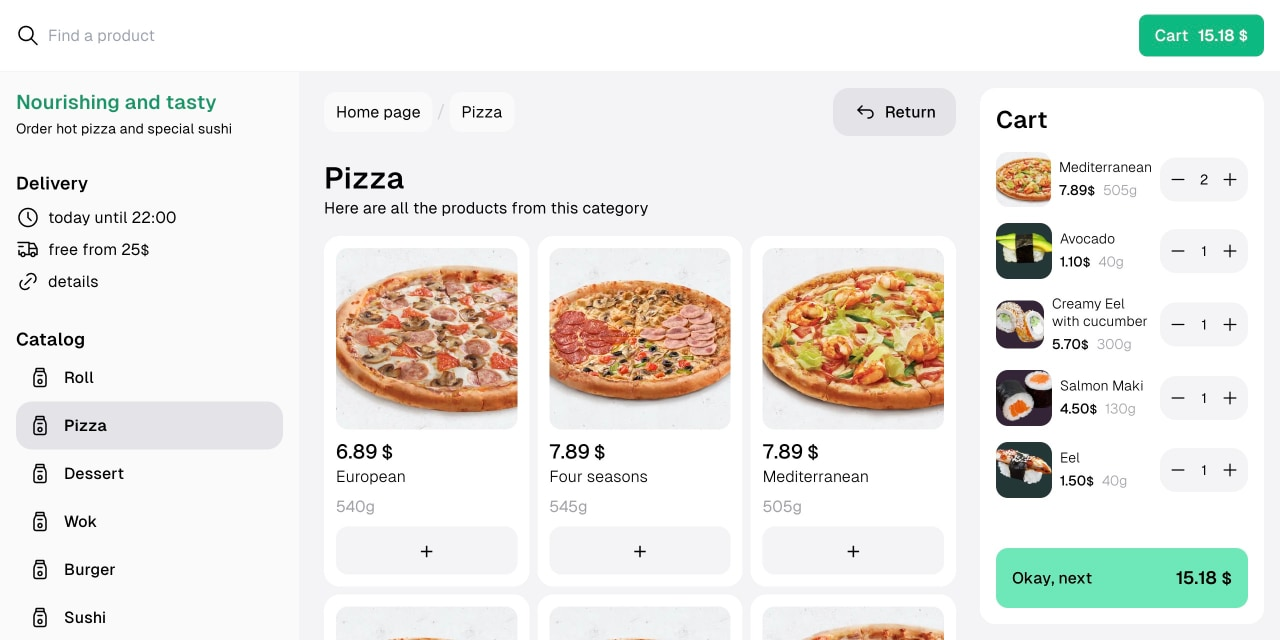
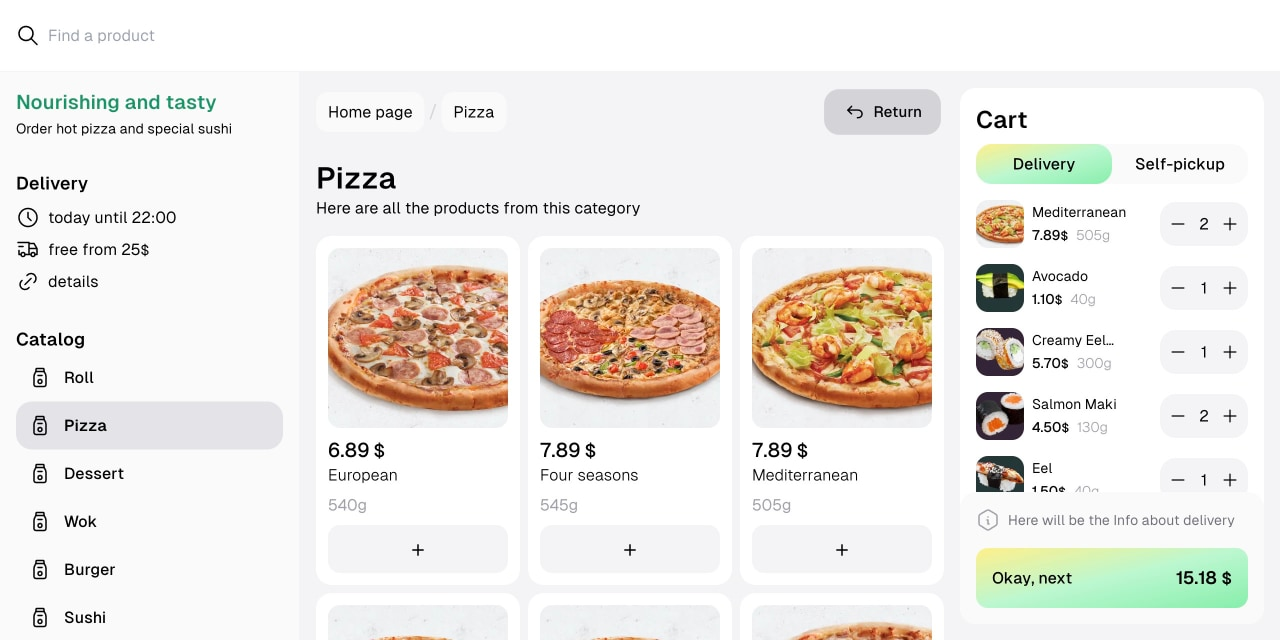
toggle for delivery/pickup, cart redesign

diff --git a/src/components/Cart.tsx b/src/components/Cart.tsx
@@ -5,6 +5,8 @@ import { Checkout, CheckoutLine } from "@next-orders/api-sdk";
 import { Counter } from "@/components/Counter";
 import { CurrencySign } from "@/components/CurrencySign";
 import { Price } from "@/components/Price";
+import { CartTypeToggle } from "@/components/CartTypeToggle";
+import { IconInfoHexagon } from "@tabler/icons-react";
 
 type Props = {
   checkout: Checkout | null;
@@ -20,14 +22,28 @@ export const Cart = ({ checkout }: Props) => {
   return (
     <div className="relative bg-white rounded-2xl px-4 py-4 h-full flex flex-col justify-between">
       <ScrollArea className="h-screen">
-        <div className="mb-32">
-          <p className="mb-4 text-2xl font-semibold">Cart</p>
+        <div className="mb-48">
+          <p className="mb-2 text-2xl font-semibold">Cart</p>
+
+          <div className="mt-2 mb-4">
+            <CartTypeToggle />
+          </div>
+
           {isEmpty && <CartEmpty />}
           {items}
         </div>
       </ScrollArea>
 
-      <div className="absolute bottom-0 left-0 right-0 bg-white rounded-2xl">
+      <div className="absolute bottom-0 left-0 right-0 rounded-2xl bg-zinc-50">
+        <div className="my-4 mx-4 flex flex-row gap-2 flex-nowrap items-center">
+          <IconInfoHexagon
+            stroke={1.5}
+            className="w-6 h-6 min-w-fit text-zinc-400"
+          />
+          <div className="leading-tight text-sm text-zinc-500">
+            Here will be the Info about delivery
+          </div>
+        </div>
         <div className="my-4 mx-4">
           <button className="w-full px-4 py-4 flex flex-row gap-2 flex-wrap justify-between items-center rounded-xl cursor-pointer bg-gradient-to-br from-yellow-200 via-green-200 to-green-300 hover:bg-gradient-to-r hover:scale-95 duration-200">
             <div className="font-medium">Okay, next</div>
@@ -62,7 +78,7 @@ const CartItemLine = ({ quantity, variant }: CheckoutLine) => {
           />
 
           <div>
-            <div className="font-light text-sm leading-tight line-clamp-1">
+            <div className="font-base text-sm leading-tight line-clamp-1">
               {variant.name}
             </div>
             <div className="mt-1 flex flex-row gap-2 flex-nowrap">

diff --git a/src/components/CartTypeToggle.tsx b/src/components/CartTypeToggle.tsx
@@ -1,0 +1,41 @@
+"use client";
+
+import React from "react";
+
+export const CartTypeToggle = () => {
+  const [type, setType] = React.useState<"DELIVERY" | "PICKUP">("DELIVERY");
+
+  return (
+    <div className="px-0 py-0 flex flex-row gap-0 justify-center bg-zinc-50 rounded-2xl">
+      <TypeButton type={"DELIVERY"} typeNow={type} onClick={setType} />
+      <TypeButton type={"PICKUP"} typeNow={type} onClick={setType} />
+    </div>
+  );
+};
+
+type TypeButtonProps = {
+  type: "DELIVERY" | "PICKUP";
+  typeNow: "DELIVERY" | "PICKUP";
+  onClick: React.Dispatch<React.SetStateAction<"DELIVERY" | "PICKUP">>;
+};
+
+const TypeButton = ({ type, typeNow, onClick }: TypeButtonProps) => {
+  let label;
+
+  if (type === "DELIVERY") {
+    label = "Delivery";
+  }
+  if (type === "PICKUP") {
+    label = "Self-pickup";
+  }
+
+  return (
+    <button
+      onClick={() => onClick(type)}
+      className="w-full px-2 py-2 font-medium rounded-2xl data-[active=true]:bg-gradient-to-br from-yellow-200 via-green-200 to-green-300 hover:bg-zinc-100 hover:scale-95 duration-200"
+      data-active={type === typeNow}
+    >
+      {label}
+    </button>
+  );
+};

diff --git a/src/components/AddToCart.tsx b/src/components/AddToCart.tsx
@@ -14,7 +14,7 @@ export const AddToCart = ({ product }: AddToCartProps) => {
   return (
     <button
       onClick={() => AddProductToCheckout("123", product.id)}
-      className="px-5 py-3 flex flex-row gap-2 text-base font-medium cursor-pointer rounded-2xl bg-emerald-200 hover:bg-emerald-300 hover:scale-95 duration-200"
+      className="px-5 py-3 flex flex-row gap-2 text-base font-medium cursor-pointer rounded-2xl bg-gradient-to-br from-yellow-200 via-green-200 to-green-300 hover:scale-95 duration-200"
     >
       <IconShoppingCartPlus stroke={1.5} /> Add to Cart
     </button>
